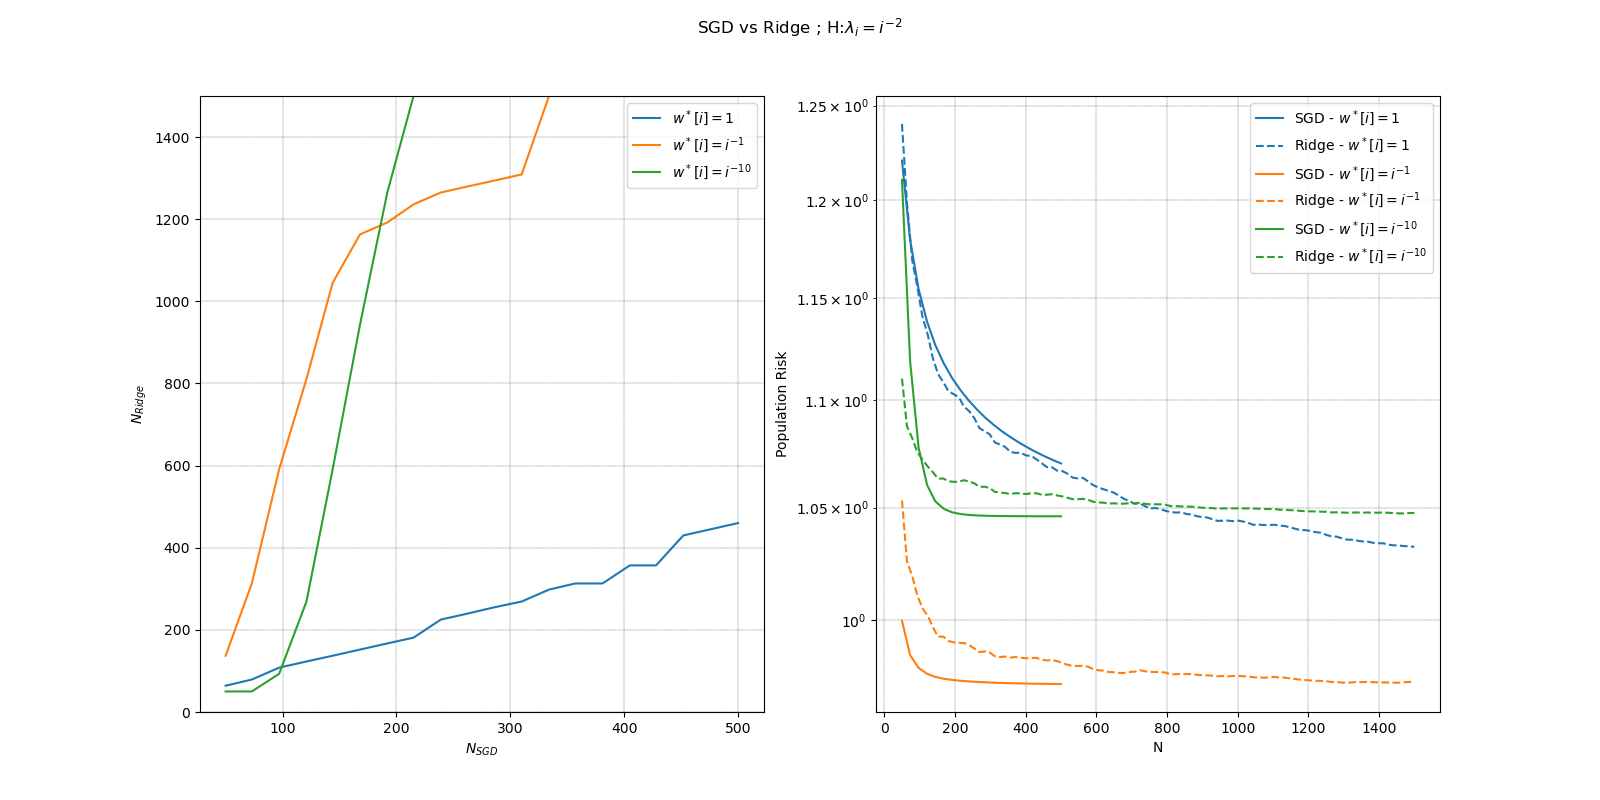
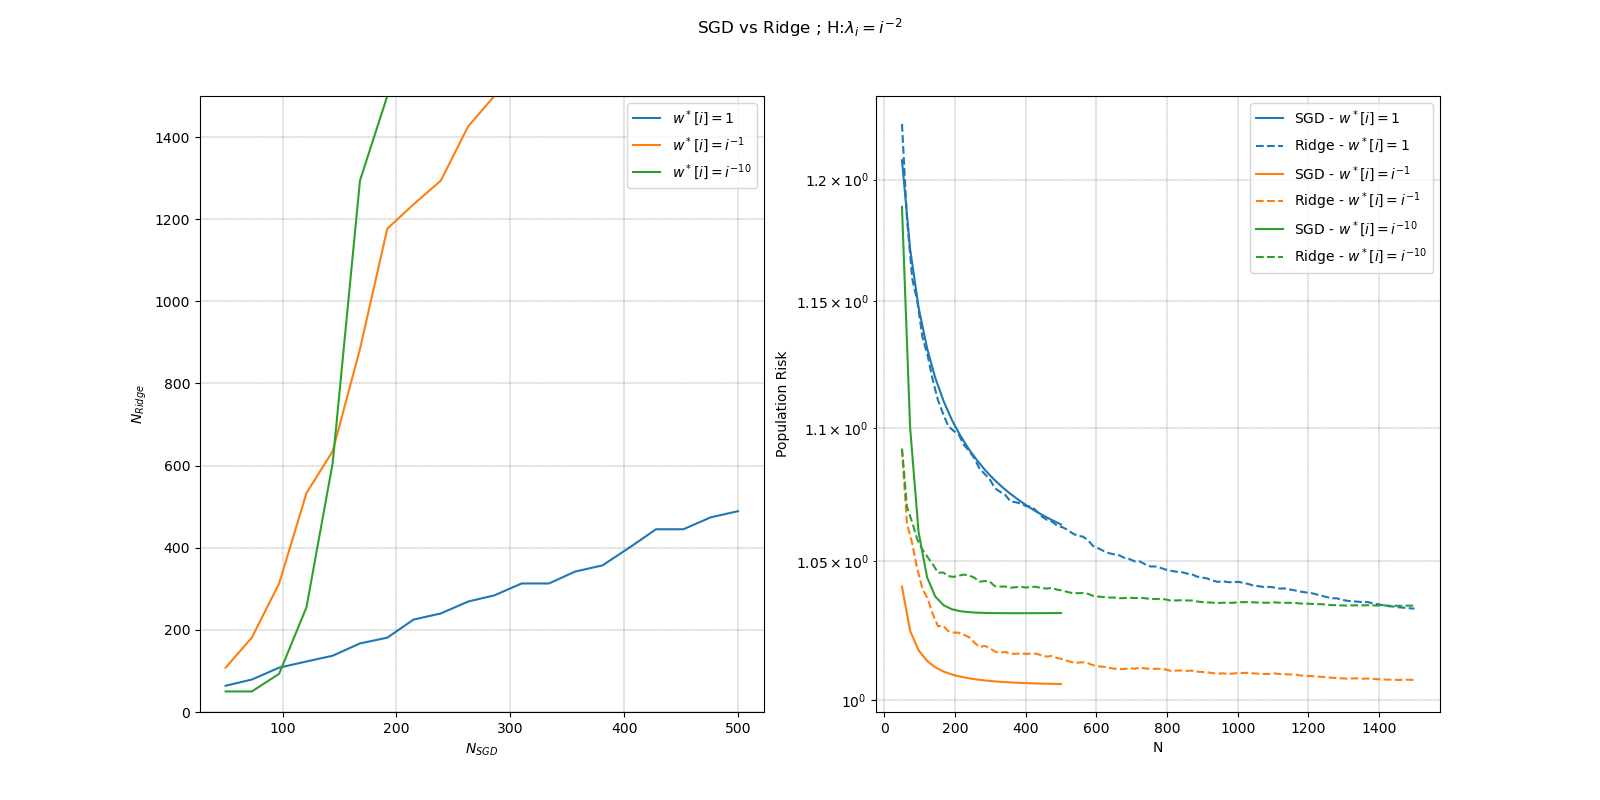
final run

diff --git a/benefits_study_depthVAR.py b/benefits_study_depthVAR.py
@@ -56,7 +56,7 @@ if COMPUTE_DATA_PLOT:
     for i,which_h in enumerate(all_which_h):
         for j,which_w in enumerate(all_which_w):
             ### Generate new data (from same distribution)
-            data, observations = generate_data(p=d, n=N_max_ridge, sigma2=sigma2, which_w=which_w, which_h=which_h)
+            data, observations = generate_data(p=d, n=N_samples, sigma2=sigma2, which_w=which_w, which_h=which_h)
 
             ### RIDGE PART
             suffix_ridge = suffix_filename(ridge_bool=True, w=which_w, h=which_h, d=d)
@@ -92,7 +92,7 @@ if COMPUTE_DATA_PLOT:
                 if OUTLIER_DETECTION:
                     n_out_sgd = (sgd_errors > threshold_obj).sum()
                     sgd_risks[k, i, j,:] = np.mean(sgd_errors, axis=0, where=sgd_errors<threshold_obj)
-                    print(f'SGD: {n_out_sgd} outliers for H{which_h}_w{which_w} indim{intern_dim} ')
+                    print(f'SGD: {n_out_sgd} outliers for H{which_h}_w{which_w} depth{depth} ')
                 else:
                     sgd_risks[k,i, j,:] = np.mean(sgd_errors, axis=0)
 
@@ -124,7 +124,7 @@ for i, which_h in enumerate(all_which_h):
     for j,which_w in enumerate(all_which_w):
         for k, depth in enumerate(depths):
             axs[0,j].plot(n_sgd, y_plot[k,i,j,:], label=f'depth: {depth}')
-            axs[1,j].plot(n_sgd, sgd_risks[k,i,j,:], label=f'SGD - intern_dim: {depth}')
+            axs[1,j].plot(n_sgd, sgd_risks[k,i,j,:], label=f'SGD - depth: {depth}')
         axs[1,j].plot(n_ridge, ridge_risks[i,j,:], linestyle='--', label=f'Ridge')
         
         axs[0,j].grid(color='black', which="both", linestyle='--', linewidth=0.2)

diff --git a/benefits_data_generation.py b/benefits_data_generation.py
@@ -18,11 +18,6 @@ nb_avg = 20
 
 N_max_ridge = 1500 # maximal nb of datapoints
 N_max_sgd = 500
-n_ridge = np.floor(np.linspace(d,N_max_ridge,100)).astype(dtype=np.uint16) # nb of datapoints for evaluations
-n_sgd = np.floor(np.linspace(d,N_max_sgd,20)).astype(dtype=np.uint16)
-
-lambda_ = 1e-5*np.ones(len(n_ridge)) # default lambda for tests
-learning_rate = 0.001*np.ones(len(n_sgd)) # default learning rates for tests
 
 intern_dim = 10
 depth = -1 # Single Layer
@@ -62,6 +57,9 @@ if __name__=='__main__':
     N_max_sgd = args.N_SGD
     depth = args.depth
     intern_dim = args.intern_dim
+
+    n_ridge = np.floor(np.linspace(d,N_max_ridge,100)).astype(dtype=np.uint16) # nb of datapoints for evaluations
+    n_sgd = np.floor(np.linspace(d,N_max_sgd,20)).astype(dtype=np.uint16)
 
     # saving paths
     suffix_ridge = suffix_filename(ridge_bool=True, w=which_w, h=which_h, d=d)

diff --git a/main.py b/main.py
@@ -20,10 +20,10 @@ which_w = 0 # 0, 1 or 10 -> i**(-...)
 CROSS_VAL_K = 10
 HOMOGENEOUS = False
 
-GENERATE_RIDGE = False # generate ridge weights
+GENERATE_RIDGE = True # generate ridge weights
 GENERATE_SGD = True # generate SGD weights
 
-FINE_TUNE_RIDGE = False
+FINE_TUNE_RIDGE = True
 FINE_TUNE_SGD = True
 FINE_TUNE_PER_N = False
 ridge_crossval = True
@@ -34,7 +34,7 @@ if __name__=='__main__':
     # example of command to execute the desired files (generate data for ridge/sgd, fine tune for ridge/sgd on all w and all h)
     for which_h in [1,2]:
         for which_w in [0,1,10]:
-            for depth in [1,2,5,8]:
+            #for depth in [1,2,5,8]:
                 if FINE_TUNE_PER_N:
                     file = 'benefits_crossvalidation_per_n.py'
                 else:

diff --git a/benefits_study_indimVAR.py b/benefits_study_indimVAR.py
@@ -56,7 +56,7 @@ if COMPUTE_DATA_PLOT:
     for i,which_h in enumerate(all_which_h):
         for j,which_w in enumerate(all_which_w):
             ### Generate new data (from same distribution)
-            data, observations = generate_data(p=d, n=N_max_ridge, sigma2=sigma2, which_w=which_w, which_h=which_h)
+            data, observations = generate_data(p=d, n=N_samples, sigma2=sigma2, which_w=which_w, which_h=which_h)
 
             ### RIDGE PART
             suffix_ridge = suffix_filename(ridge_bool=True, w=which_w, h=which_h, d=d)

diff --git a/benefits_study.py b/benefits_study.py
@@ -68,7 +68,7 @@ if COMPUTE_DATA_PLOT:
             w_sgd = np.load(SAVE_SGD_ITERATE) # (nb_avg, len(n_sgd), d)
 
             ### Generate new data (from same distribution)
-            data, observations = generate_data(p=d, n=N_max_ridge, sigma2=sigma2, which_w=which_w, which_h=which_h)
+            data, observations = generate_data(p=d, n=N_samples, sigma2=sigma2, which_w=which_w, which_h=which_h)
 
             ### Compute variables of interest
             ridge_errors = np.zeros((nb_avg, len(n_ridge)))

diff --git a/benefits_crossvalidation.py b/benefits_crossvalidation.py
@@ -25,9 +25,6 @@ sgd_crossval = False
 N_max_ridge = 1500
 N_max_sgd = 500
 
-n_ridge = np.floor(np.linspace(d,N_max_ridge,100)).astype(dtype=np.uint16)
-n_sgd = np.floor(np.linspace(d,N_max_sgd,20)).astype(dtype=np.uint16)
-
 n_fine_tune_params = 10 # nb of hyperparameters tested
 n_fine_tune_params_ridge= n_fine_tune_params*10
 n_fine_tune_params_sgd=n_fine_tune_params
